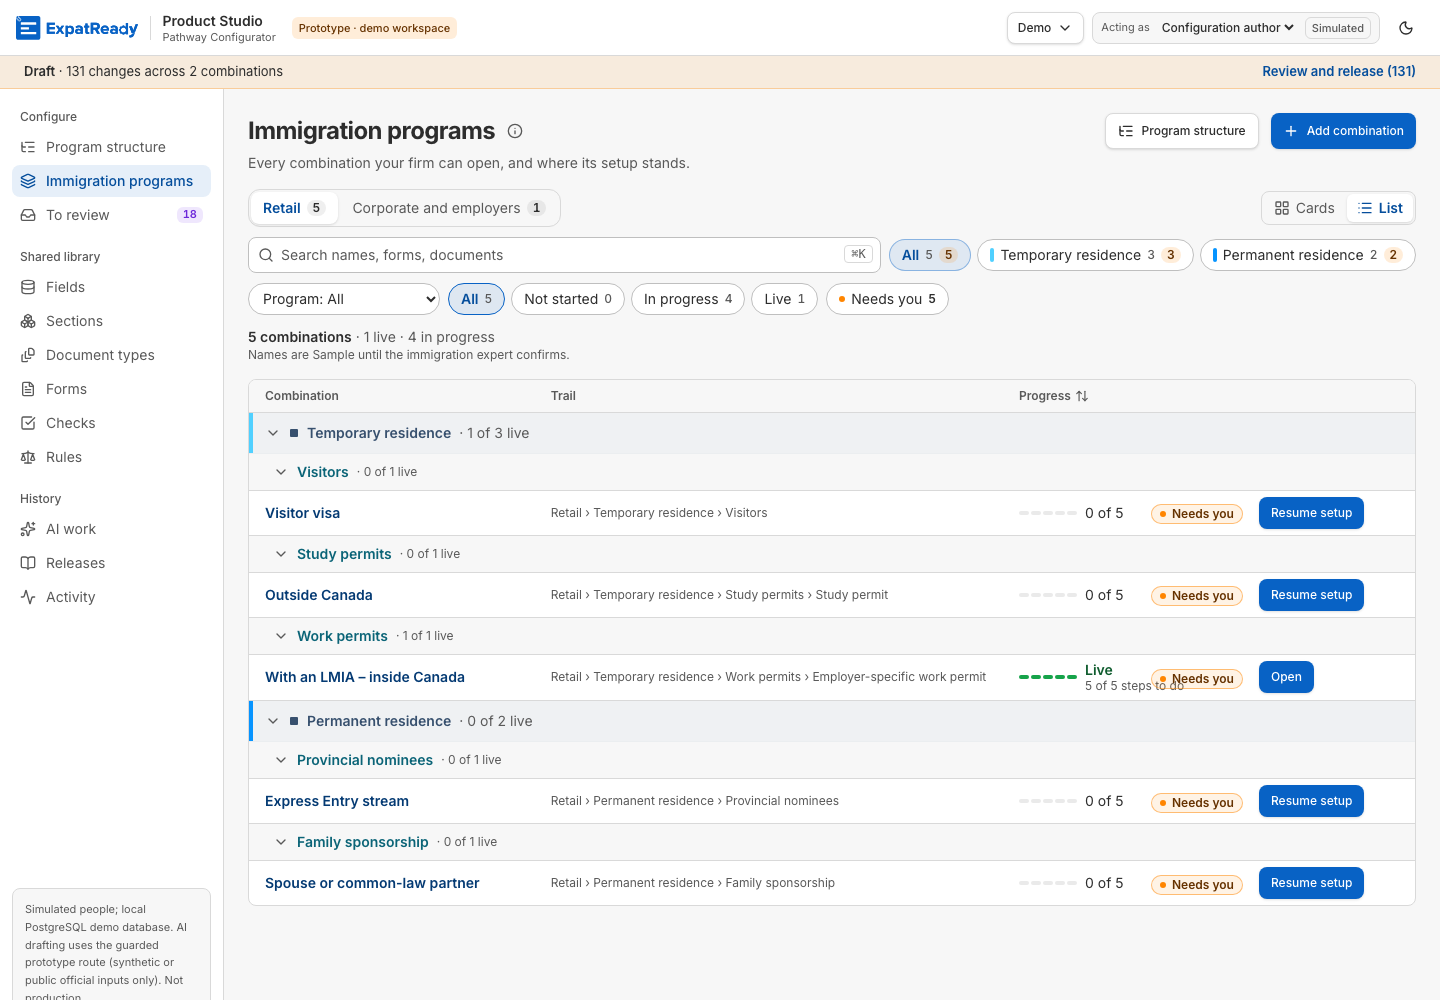
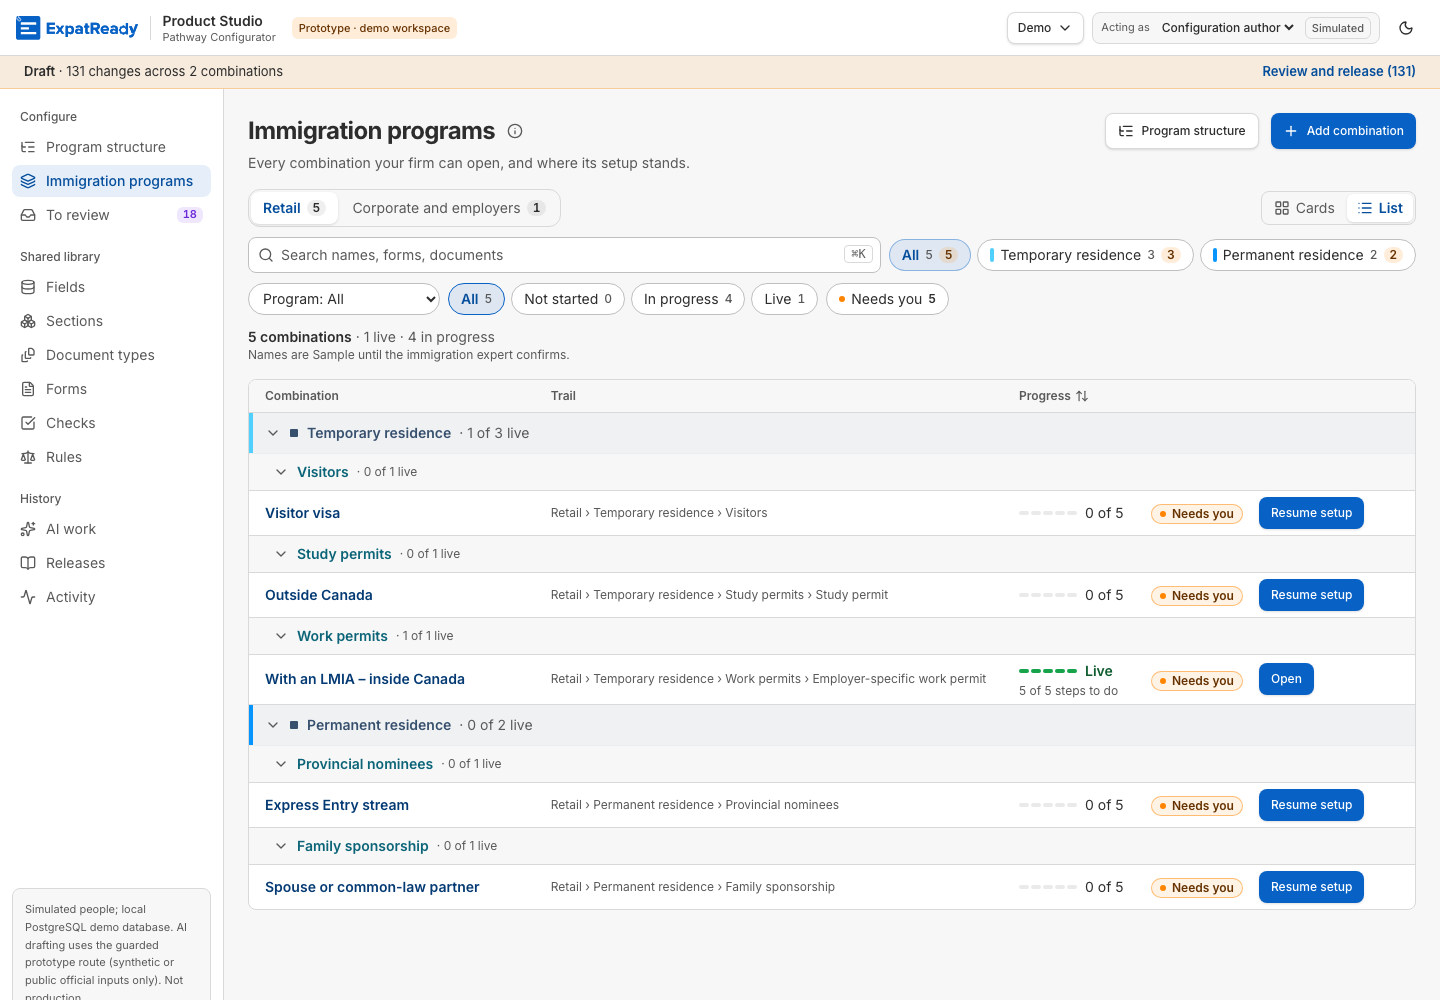
screens: QA-184 review Minor 1 — the List's next-release line sits under the bar at the column's width
The nowrap line ran into the Needs you mark; it now wraps under the mini bar in
the same 120 px cell (one line, inside the cell, checked).

diff --git a/ai-workers/problem-1-pathway-setup-and-form-filling/prototype/studio/web/src/pages/programs.tsx b/ai-workers/problem-1-pathway-setup-and-form-filling/prototype/studio/web/src/pages/programs.tsx
@@ -498,10 +498,11 @@ function Progress({ r, mini }: { r: CatalogueLeaf; mini?: boolean }) {
   // List's 120 px column (review m1) gives it its own short line, "5 of 5 steps to do", with the full words for screen
   // readers and on hover.
   const next = st === "LIVE" ? r.setup?.bar.next : null;
+  // `contents`: its two lines join the cell's wrapping row, so the second sits under the bar at the column's full width.
   if (next && mini) return (
-    <span data-progress={st} title={next} className="flex flex-col leading-tight">
+    <span data-progress={st} className="contents">
       <span className="font-semibold text-text-ok">Live</span>
-      <span className="whitespace-nowrap text-xs text-text-muted" data-next-release><span className="sr-only"> · Next release: </span>{next.replace(/^Next release: /, "")}</span>
+      <span className="basis-full text-xs leading-tight text-text-muted" title={next} data-next-release><span className="sr-only"> · Next release: </span>{next.replace(/^Next release: /, "")}</span>
     </span>
   );
   return <span data-progress={st} className={cn(st === "LIVE" ? "font-semibold text-text-ok" : st === "RETIRED" ? "text-text-muted" : "text-text")}>{text}{next ? <span className="font-normal text-text-muted" data-next-release> · {next}</span> : null}</span>;
@@ -630,7 +631,7 @@ function List({ groups, closed, onToggle, highlight, q, sort, filtering, needsOn
                         <span className="block truncate text-xs text-text-muted" title={above} data-trail>{above}</span>
                         {q && r.matches.some((m) => m !== "name") ? <span className="block truncate text-xs text-text-muted">Matches: {r.matches.filter((m) => m !== "name").join(", ")}</span> : null}
                       </div>
-                      <div role="gridcell" className="col-start-1 row-start-3 flex items-center gap-2 text-sm sm:col-start-auto sm:row-start-auto"><StepBar r={r} mini /><Progress r={r} mini /></div>
+                      <div role="gridcell" className="col-start-1 row-start-3 flex flex-wrap items-center gap-x-2 gap-y-0.5 text-sm sm:col-start-auto sm:row-start-auto"><StepBar r={r} mini /><Progress r={r} mini /></div>
                       <div role="gridcell" className="col-start-2 row-start-1 justify-self-end sm:col-start-auto sm:row-start-auto sm:justify-self-start"><NeedsYouMark r={r} tabIndex={ti} /></div>
                       <div role="gridcell" className="col-start-2 row-span-2 row-start-2 justify-self-end sm:col-start-auto sm:row-span-1 sm:row-start-auto sm:justify-self-start" data-step-cell><CardButton r={r} canAuthor={canAuthor} tabIndex={ti} onOpen={() => onOpen(r)} onResume={() => onResume(r)} /></div>
                     </div>
